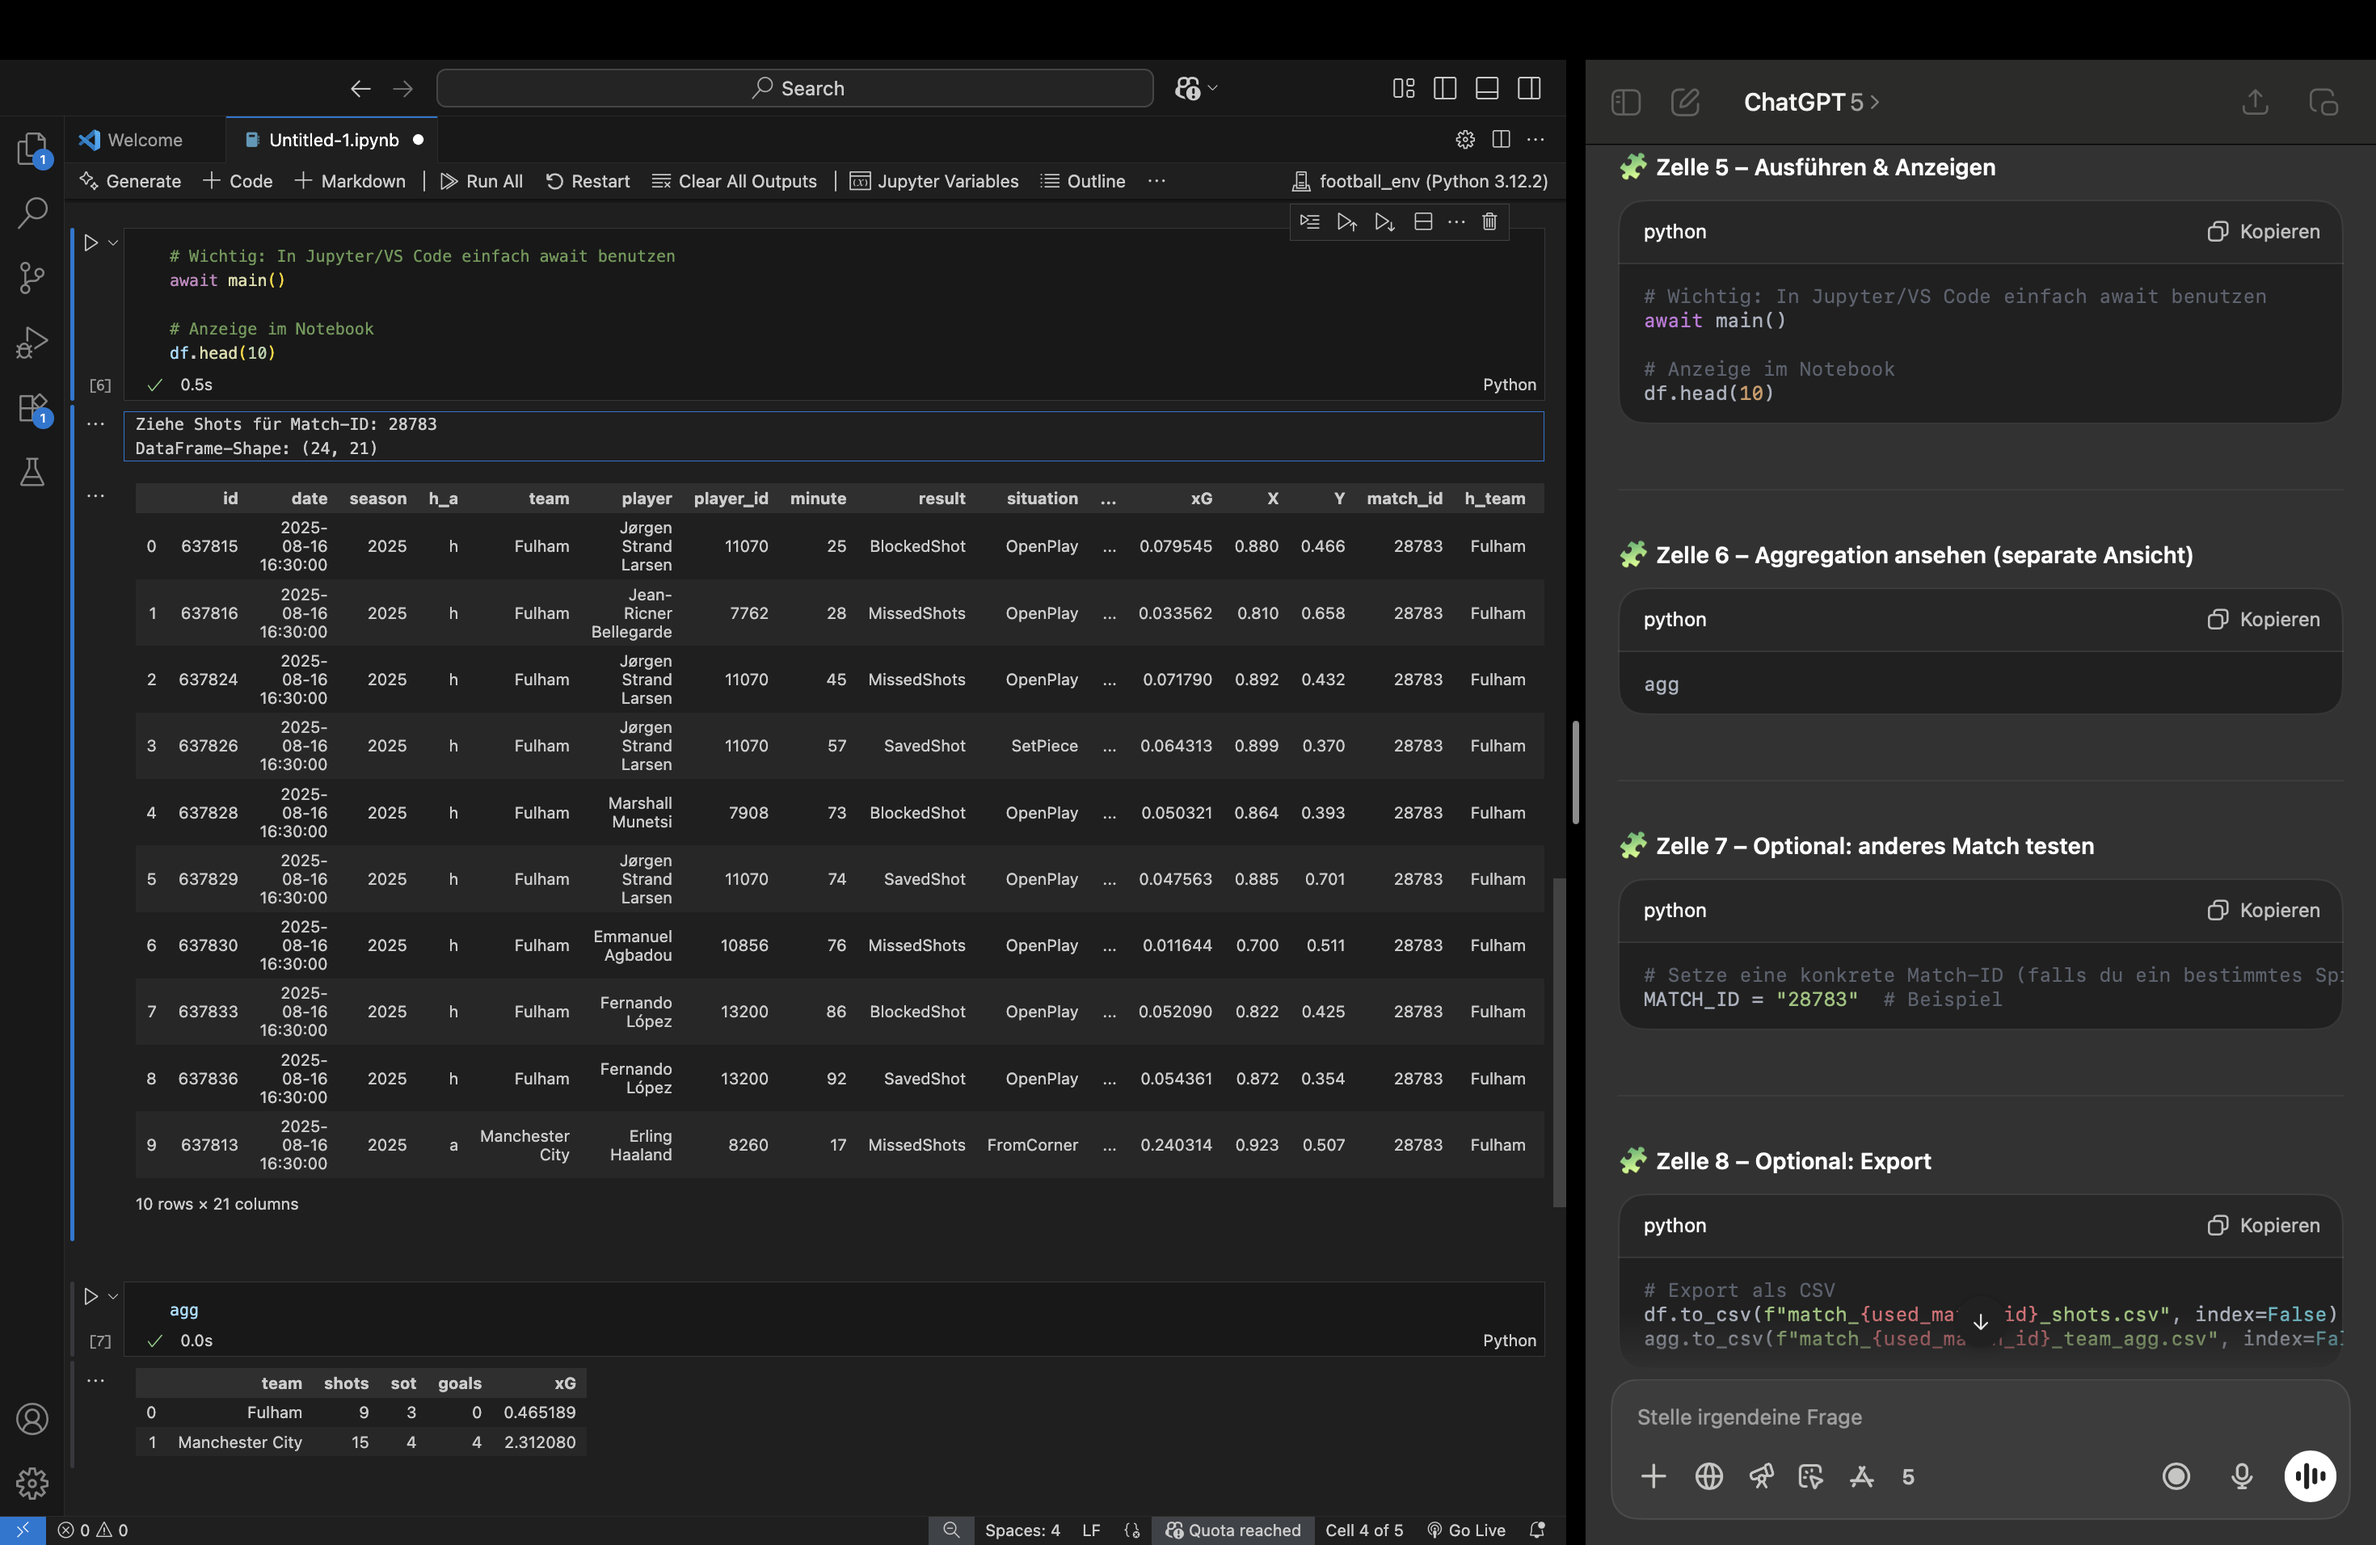
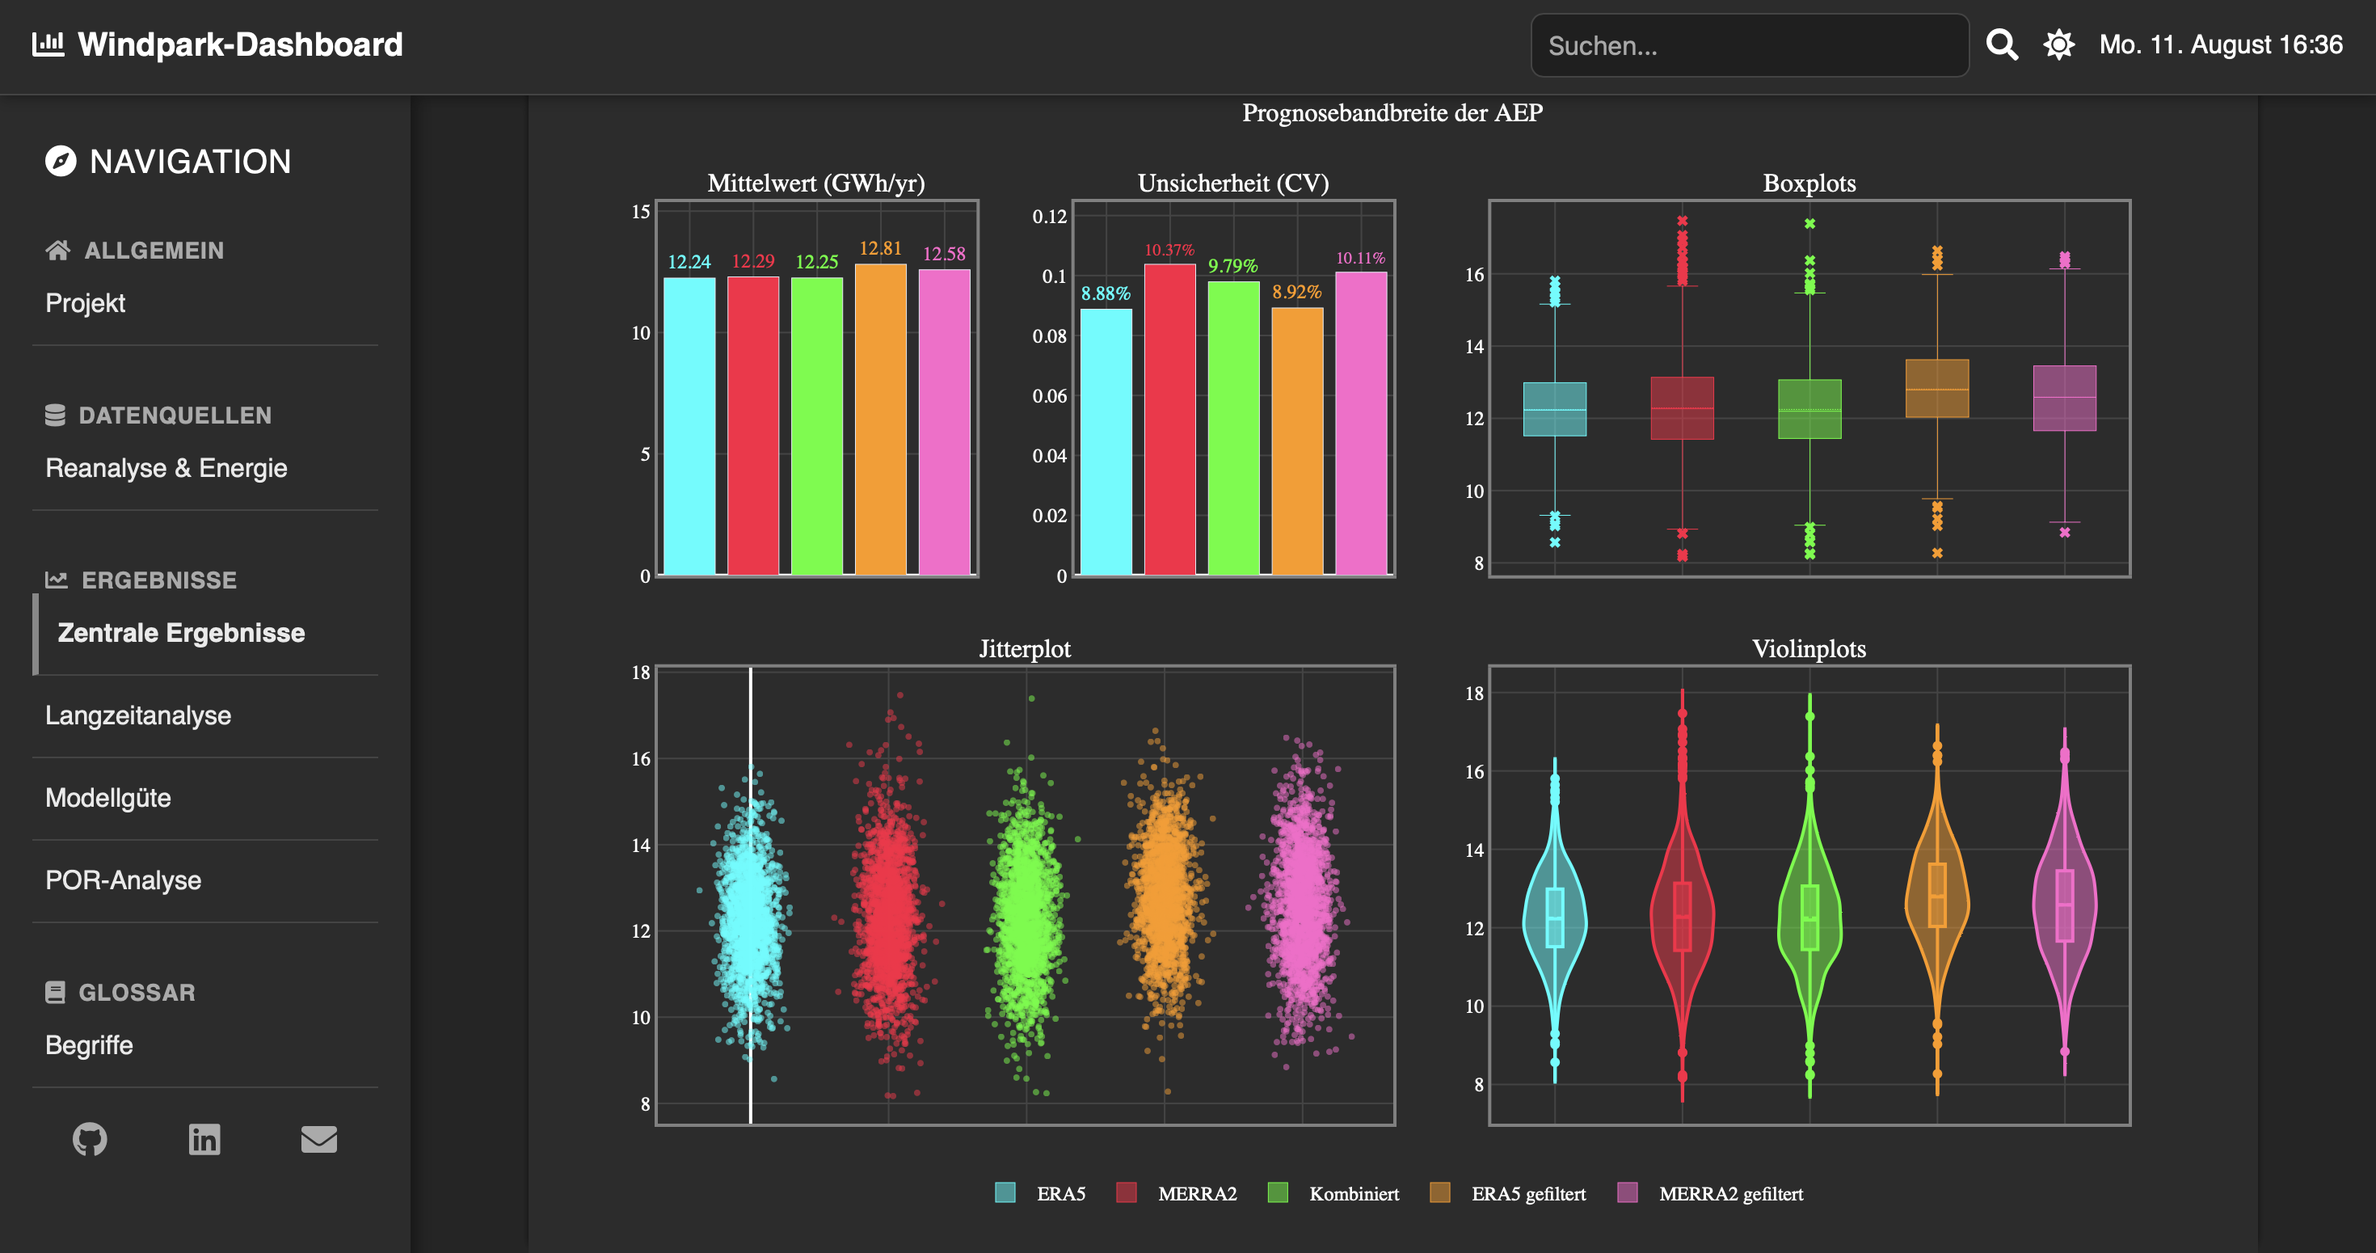
docs: polish README (English structure, remove <pre>, license note); fix: set app port to 8050; update dark mode screenshot

diff --git a/app.py b/app.py
@@ -212,7 +212,7 @@ def highlight_active_link(pathname):
 # --- App starten ---
 if __name__ == '__main__':
     import os
-    port = int(os.environ.get("PORT", 8051))
+    port = int(os.environ.get("PORT", 8050))
     app.run(debug=False, host="0.0.0.0", port=port)
     
     

diff --git a/README.md b/README.md
@@ -5,6 +5,7 @@ It supports Monte Carlo evaluations, model performance comparisons, uncertainty 
 
 ---
 
+
 ## Features
 
 - Compare multiple reanalysis datasets (ERA5, MERRA2, combined, filtered)
@@ -16,11 +17,13 @@ It supports Monte Carlo evaluations, model performance comparisons, uncertainty 
 
 ---
 
+
 ## Screenshots
 
 **Light Mode**
 
 ![Light Mode](assets/readme/screenshot-light.png)
+
 
 **Dark Mode**
 
@@ -28,24 +31,24 @@ It supports Monte Carlo evaluations, model performance comparisons, uncertainty 
 
 ---
 
+
 ## Project structure
 
-<pre>
 ```
 openoa-dashboard/
 ├── app.py                # Main Dash application
 ├── assets/               # CSS
 ├── callbacks/            # Dash callbacks per tab
 ├── data/
-│   ├── raw/              # Eingabedaten (CSV-Simulationsergebnisse)
-│   ├── processed/        # Transformierte Eingabedaten
-│   └── config.py         # Farben, Metrikdefinitionen
+│   ├── raw/              # Input data (CSV simulation results)
+│   ├── processed/        # Processed data
+│   └── config.py         # Colors, metric definitions
 ├── layout/               # Tab layouts
 ├── utils/                # Plot & stats utils
 ├── requirements.txt      # Dependencies
 └── README.md             # This file
 ```
-</pre>
+
 
 ## Installation & Quickstart
 
@@ -75,9 +78,10 @@ http://127.0.0.1:8050
 
 ## Lizenz
 
-MIT License – see LICENSE
+MIT License – see [LICENSE](LICENSE)
 
 ---
+
 
 ## Autor
 
@@ -85,6 +89,7 @@ Gabriel Jonathan Abebe
 jonathanabebe@outlook.de
 
 ---
+
 
 Hinweis (Deutsch)
 
